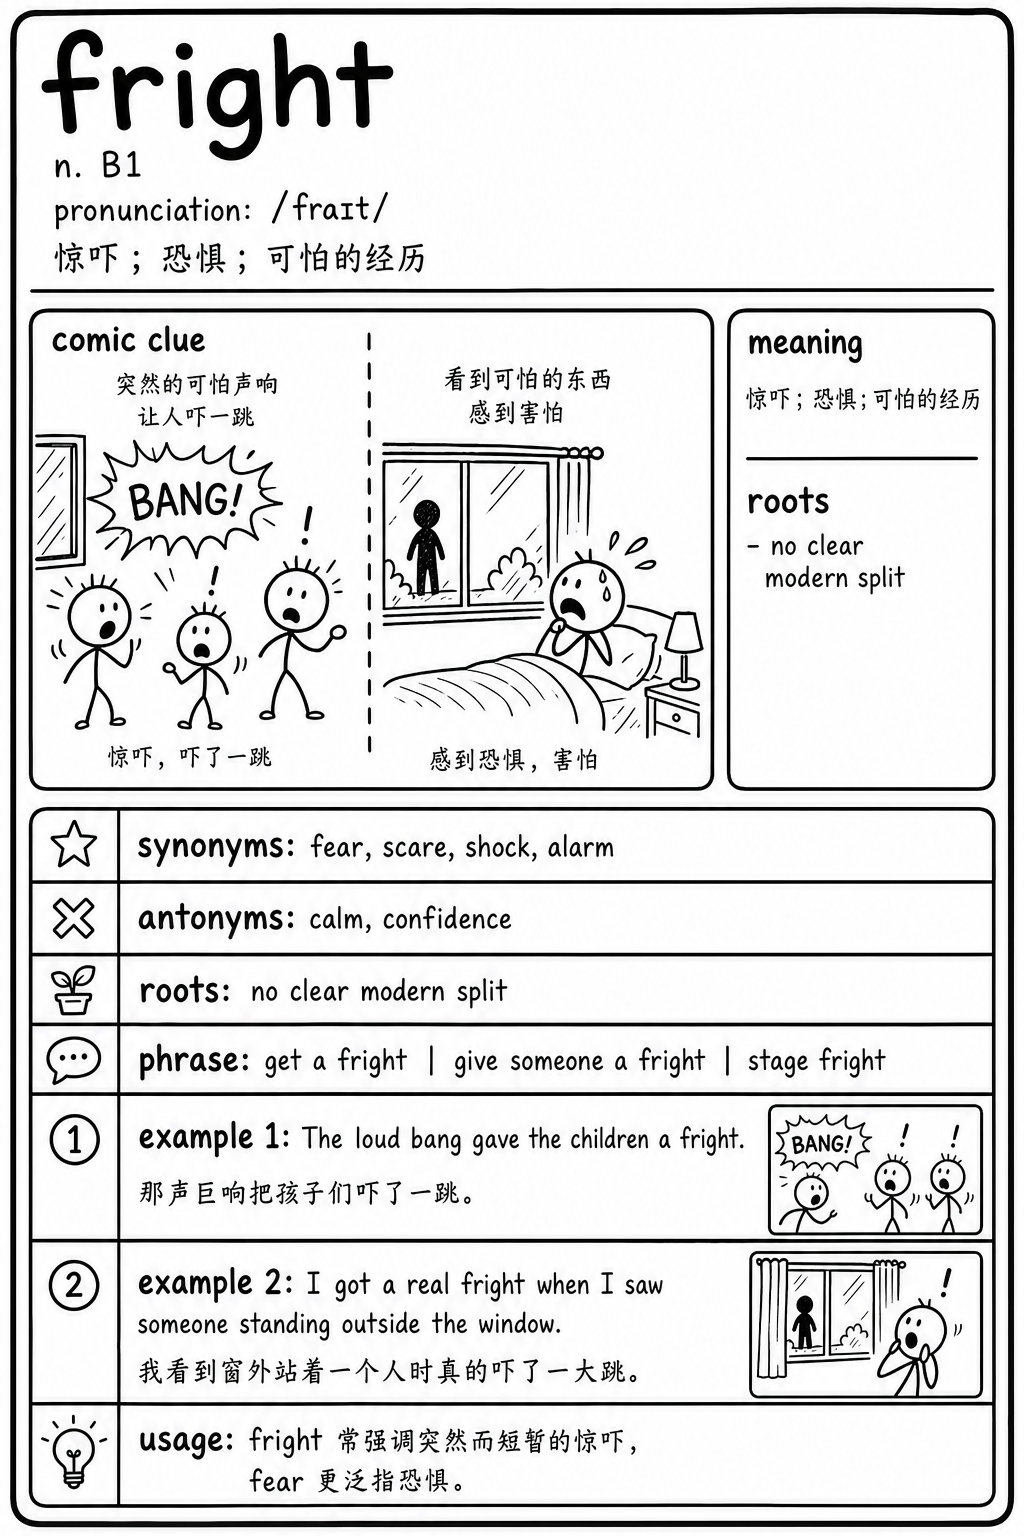
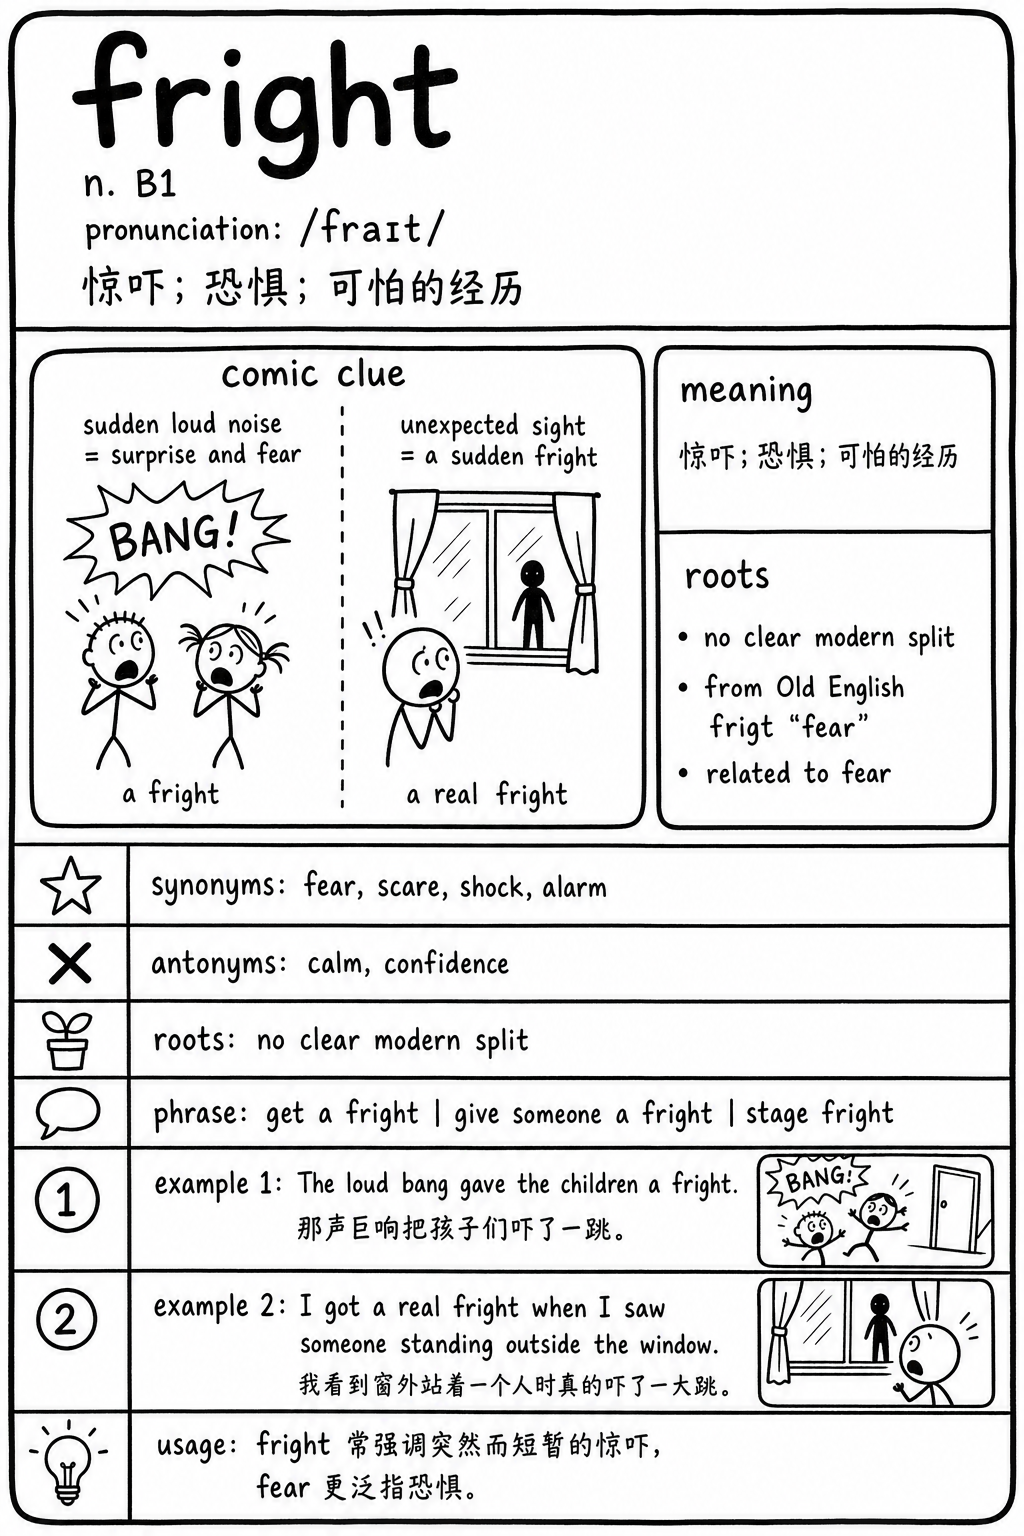
Regenerate third small word-card checkpoint

Changed region(s): [[0.0, 0.0, 1.0, 1.0], [0.9688, 0.0, 1.0, 0.0312]]

diff --git a/progress/status.md b/progress/status.md
@@ -439,7 +439,7 @@ Started: 2026-06-19
 ## Quality Notes
 
 - `4007-4026` completed the final missing 20 cards using verbatim prompt text from `jobs/prompts-08.jsonl` and `jobs/prompts-09.jsonl`. Reporting subagents confirmed the built-in `imagegen` / `image_gen` path only and no Codex CLI, subscription runners, external APIs, API keys, npm image scripts, `scripts/image_gen.py`, git operations, or progress-file edits. The main thread then verified the full repository with `npm run verify`: `expected: 4026`, `valid: 4026`, `missing: 0`, `invalid: 0`, `extra: 0`, and `duplicateHashes: 0`.
-- Small-file regeneration audit: after the user clarified that sub-1.5 MB images should be treated as non-standard rather than accepted on dimensions alone, the main thread started regenerating those candidates with imagegen-only subagents. Checkpoints 1-2 replaced 57 cards with native `1024x1536` outputs of at least 1.5 MB, with no local scaling, padding, white-border expansion, or canvas normalization. Full repository validation after checkpoint 2 reported `expected: 4026`, `valid: 4026`, `missing: 0`, `invalid: 0`, `extra: 0`, and `duplicateHashes: 0`; the remaining sub-1.5 MB count is 389.
+- Small-file regeneration audit: after the user clarified that sub-1.5 MB images should be treated as non-standard rather than accepted on dimensions alone, the main thread started regenerating those candidates with imagegen-only subagents. Checkpoints 1-3 replaced 75 cards with native `1024x1536` outputs of at least 1.5 MB, with no local scaling, padding, white-border expansion, or canvas normalization. Full repository validation after checkpoint 3 reported `expected: 4026`, `valid: 4026`, `missing: 0`, `invalid: 0`, `extra: 0`, and `duplicateHashes: 0`; the remaining sub-1.5 MB count is 371.
 - `3947-4006` were generated by six imagegen-only subagents using verbatim `jobs/prompts-08.jsonl` prompt text. Reporting subagents confirmed the built-in `imagegen` / `image_gen` path only and no Codex CLI, subscription runners, external APIs, API keys, npm image scripts, `scripts/image_gen.py`, git operations, or progress-file edits. The 60 PNGs were validated by the main thread as non-tiny 1024x1536 cards with unique hashes, and full repository validation reported `valid: 4006`, `missing: 20`, `invalid: 0`, `extra: 0`, and `duplicateHashes: 0`. `3977-genetic.png` was fixed by deterministic local white-background normalization to 1024x1536. Hard retries were reported for `3958-nonproliferation.png` and `3994-disarmament.png` due to weapon imagery; saved versions use neutral educational or symbolic treatment. Remaining generated handwriting/OCR/layout drift, if any, is quality-only per the latest user instruction.
 - `3887-3946` were generated by imagegen-only subagents using verbatim `jobs/prompts-08.jsonl` prompt text. Reporting subagents confirmed the built-in `imagegen` / `image_gen` path only and no Codex CLI, subscription runners, external APIs, API keys, npm image scripts, `scripts/image_gen.py`, git operations, or progress-file edits. The 60 PNGs were validated by the main thread as non-tiny 1024x1536 cards with unique hashes, and full repository validation reported `valid: 3946`, `missing: 80`, `invalid: 0`, `extra: 0`, and `duplicateHashes: 0`. `3887-liberal.png`, `3892-incompetent.png`, `3893-excess.png`, `3894-paternity.png`, `3895-essential.png`, `3896-ethnicity.png`, `3897-controversy.png`, `3920-coup.png`, `3921-harbor.png`, `3922-demonstrator.png`, and `3923-clash.png` were fixed by deterministic local white-background normalization to 1024x1536. Hard retries were reported for `3898-symptom.png` due to wrong large title, `3900-inflamed.png` due to duplicate-hash wrong-word content, and `3941-metaphor.png` due to duplicate-hash wrong-word content; `3887-3896` also required a one-card recovery worker after a `Bad Request` tool error. Saved versions use neutral educational or symbolic treatment; remaining generated handwriting/OCR/layout drift, if any, is quality-only per the latest user instruction.
 - `3827-3886` were generated by six imagegen-only subagents using verbatim `jobs/prompts-08.jsonl` prompt text. Reporting subagents confirmed the built-in `imagegen` / `image_gen` path only and no Codex CLI, subscription runners, external APIs, API keys, npm image scripts, `scripts/image_gen.py`, git operations, or progress-file edits. The 60 PNGs were validated by the main thread as non-tiny 1024x1536 cards with unique hashes, and full repository validation reported `valid: 3886`, `missing: 140`, `invalid: 0`, `extra: 0`, and `duplicateHashes: 0`. `3847-jubilant.png`, `3848-liberty.png`, `3853-inception.png`, `3854-designated.png`, `3855-fugitive.png`, `3856-jurisdiction.png`, `3857-depreciation.png`, and the `3867-3876` batch were fixed by deterministic local white-background normalization to 1024x1536. Hard retries were reported for `3829-ravage.png` due to weapon imagery, `3846-laud.png` due to a no-artifact tool/service error, `3852-bloodshed.png` due to weapon/violence symbols, and `3872-treaty.png` due to repeated weapon symbols from a source example mentioning weapons stockpiles. Saved versions use neutral educational or symbolic treatment; remaining generated handwriting/OCR/layout drift, if any, is quality-only per the latest user instruction.
